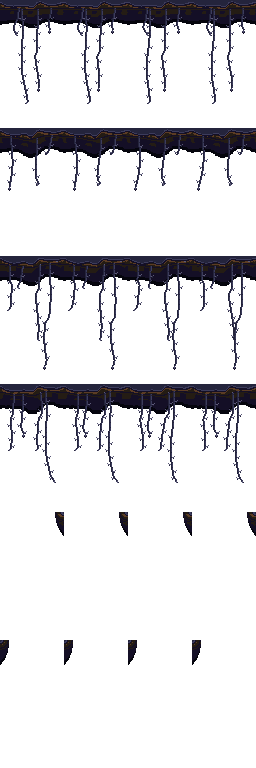
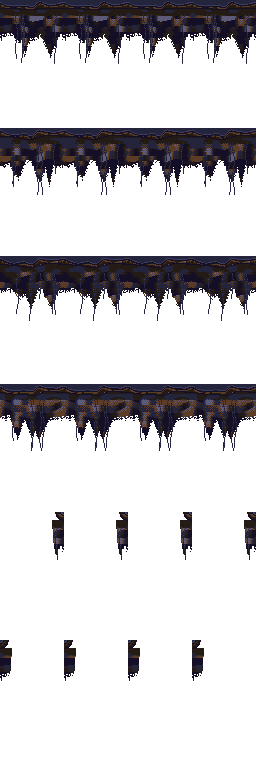
island_underside.png: the old cliff face under the south lip instead of vines (the user: 'closer to the old design but just on the bottom')
The S side and S corners hang cliff.png's banded rock, drips and roots just under the thin lip (corners only under the lip's arc, tapering). Static; the 4 frame columns stay identical so the layout and code don't change. The other sides keep the thin lip. All 4 acts.

diff --git a/Project_T/tools/environment_art/heartwood_grounds.html b/Project_T/tools/environment_art/heartwood_grounds.html
@@ -1762,7 +1762,8 @@ function cliffTile(A, k) {
   }
   return L;
 }
-// Island edge outside the grid (environment_assets.md "Island edge outside the grid", 9329b7a5; the user's pick, B, "with
+// Island edge outside the grid (environment_assets.md "Island edge outside the grid", 9329b7a5; the user's pick, B; the vines
+// they first asked for were replaced by the old cliff face, 2026-10-07; was "with
 // the hanging vines" on the bottom): every map cell is ground, and a thin earth lip is drawn on the void cells round
 // the map, LIP_W px out from its edge, with soft grass-overhang tongues and a Dread shadow under them. Under the south
 // lip a short tucked cliff (the island's underside) with vines hanging into the void, swaying over 4 frames.
@@ -1810,47 +1811,21 @@ function islandLip(A, k) {
 }
 // The S side (row 0–3) and the S corners (4 SW, 5 SE), 64×128, frame f of 4.
 function islandUnderside(A, row, f) {
-  const L = new Img(T, T * 2), piece = row < 4 ? 5 : row === 4 ? 6 : 7, v = row < 4 ? row : 0, s = SEED + 1220 + v * 31;
-  const top = new Img(); paintLip(top, A, piece, v); L.put(top);
-  const vine = [["#1c3c2c", "#34643c", "#34643c"], ["#1c3c2c", "#2c4c5c", "#34643c"], ["#241c14", "#5c3c24", "#8c5c34"], ["#24243c", "#3c3c5c", "#5c5a78"]][A.n - 1];  // stem, lit side, leaf
-  // The cliff: under the lip's lowest pixel in each column, short and in shadow, tapering into a corner.
-  for (let x = 0; x < T; x++) {
-    let yl = -1;
-    for (let y = 0; y < T; y++) if (L.alpha(x, y)) yl = y;
-    if (yl < 0) continue;
-    let h = cliffH(x);
-    if (piece === 6) h *= Math.sqrt(clamp((x - (T - LIP_W)) / LIP_W, 0, 1));
-    if (piece === 7) h *= Math.sqrt(clamp((LIP_W - x) / LIP_W, 0, 1));
-    for (let i = 1; i <= h; i++) {
-      const t = i / h;
-      L.set(x, yl + i, i < 2 ? "#241c14" : t < .4 ? (pnoise(x, yl + i, 6, s + 1) > .55 ? "#241c14" : "#140f26") : t < .78 ? "#140f26" : "#05050d");
-    }
+  // The old cliff face under the south lip only (2026-10-07, the user: "don't like the vines, should look closer to the
+  // old design but just on the bottom"): cliff.png's banded rock, drips and hanging roots, hung just under the lip.
+  // Static (the 4 frame columns stay so the sheet layout doesn't change). The S corners keep only the cliff under the
+  // lip's arc, tapering into the corner.
+  const L = new Img(T, T * 2), piece = row < 4 ? 5 : row === 4 ? 6 : 7, v = row < 4 ? row : 0, CY = 8;
+  const face = cliffTile(A, (piece === 5 ? 3 : piece === 6 ? 2 : 1) + 4 * v);  // 3 = cliff both sides, 2 = east only, 1 = west only
+  for (let y = 0; y < T; y++) for (let x = 0; x < T; x++) {
+    if (!face.alpha(x, y)) continue;
+    if (piece === 6 && x < T - LIP_W - 2) continue;  // the corner: only under the lip's arc
+    if (piece === 7 && x > LIP_W + 1) continue;
+    const taper = piece === 6 ? Math.sqrt(clamp((x - (T - LIP_W - 2)) / (LIP_W + 2), 0, 1)) : piece === 7 ? Math.sqrt(clamp((LIP_W + 1 - x) / (LIP_W + 2), 0, 1)) : 1;
+    if (y > 8 + 50 * taper) continue;
+    L.set(x, y + CY, face.get(x, y));
   }
-  // Hanging vines (S side only): uneven lengths, some long, a dull leaf here and there, a few with a dead dream-bud.
-  // Thick enough to read as vines, not drips (1 px strands read as rain / icicles): a 2 px stem with a lit side, a slow
-  // curve, a leaf every few px. Kept 8 px off the tile's sides so a vine never crosses into the next tile.
-  if (piece === 5) for (let k = 0; k < 4; k++) {
-    if (hash(k, 1, s) < .12) continue;
-    const x0 = 9 + Math.floor((k + hash(k, 2, s) * .8) * 11.5), len = 18 + Math.pow(hash(k, 3, s), 1.5) * 90, ph = hash(k, 4, s) * 6.28;
-    const y0 = Math.round(LIP_W + lipWob(x0, v, false)) - 1, amp = 1 + len / 40;
-    // Not stiff lines (Theme Discussion): about half get a kink partway down, some a curl at the end.
-    const kinkAt = len * (.3 + hash(k, 8, s) * .4), kink = hash(k, 9, s) < .55 ? (hash(k, 10, s) < .5 ? -3 : 3) : 0;
-    const hook = hash(k, 11, s) < .45 ? (hash(k, 12, s) < .5 ? -3 : 3) : 0;
-    const curl = i => kink * clamp((i - kinkAt) / 6, 0, 1) + hook * Math.pow(clamp((i - (len - 8)) / 8, 0, 1), 2);
-    let px = x0, py = y0;
-    for (let i = 0; i < len && y0 + i < T * 2 - 5; i++) {
-      const t = i / len, sway = Math.round(amp * Math.pow(t, 1.5) * Math.sin(f * Math.PI / 2 + ph) + Math.sin(i * .07 + ph) * 3 * t + curl(i));
-      px = clamp(x0 + sway, 3, 59); py = y0 + i;  // never into the next tile
-      L.set(px, py, vine[0]); L.set(px + 1, py, i % 5 === 1 ? vine[0] : vine[1]);
-      if (i > 5 && i % 7 === 3 && hash(k, i, s + 2) < .8) {  // a dull leaf
-        const side = (i / 7 | 0) % 2 ? 2 : -1, dir = side > 0 ? 1 : -1;
-        L.set(px + side, py, vine[2]); L.set(px + side + dir, py, vine[2]); L.set(px + side + dir, py + 1, vine[0]); L.set(px + side + dir * 2, py - 1, vine[2]);
-      }
-    }
-    if (hash(k, 5, s) < .3) {  // a dead dream-bud at its tip
-      for (const [dx, dy, c] of [[0, 1, "#3c3c5c"], [-1, 2, "#3c3c5c"], [0, 2, "#5c5a78"], [1, 2, "#3c3c5c"], [0, 3, "#3c3c5c"], [-1, 3, "#140f26"], [1, 3, "#140f26"], [0, 4, "#140f26"]]) L.set(px + dx, py + dy, c);
-    } else if (hash(k, 6, s) < .75) { const dir = hash(k, 7, s) < .5 ? -1 : 1; L.set(px, py + 1, vine[1]); L.set(px + dir, py + 1, vine[2]); L.set(px + dir, py + 2, vine[2]); L.set(px + dir * 2, py + 2, vine[0]); }  // or a small leaf at its tip
-  }
+  const top = new Img(); paintLip(top, A, piece, v); L.put(top);  // the lip over the cliff's top
   return L;
 }
 const mixC = (a, b, t) => [a[0] + (b[0] - a[0]) * t, a[1] + (b[1] - a[1]) * t, a[2] + (b[2] - a[2]) * t, 255];

diff --git a/Project_T/documentation/environment_assets.md b/Project_T/documentation/environment_assets.md
@@ -62,7 +62,7 @@ two trees pulse in step.
 | `island_edge.png` | 1024×256 | 16 tiles, **column = neighbour mask** (N=1, E=2, S=4, W=8: which neighbours are island), **row = variant** (4; they all meet at the tile ends, the middle bulges and bites differently; the generator picks one per rim cell by a hash of the cell). The grass creeps over the inner lip in uneven tongues and the outline wobbles, so the edge never runs straight or repeats | the map's unbuildable rim (screens_ui.md): **no grass**, a sunken ledge of crumbled dark earth (value below the ground's; the pipeline checks it) whose open sides crumble and fade into the void, roots hanging off the lip, and a shadow step with overhanging grass where it meets the buildable ground; the south lip meets the cliff tops. Assumes a convex (blocky) island: no inner-corner tiles |
 | `cliff.png` | 256×256 | columns: bit 1 = the cell to the west also has cliff, bit 2 = the east does; rows: 4 variants | cliff face under island cells whose south neighbour is void; transparent below its ragged, dripping underside |
 | `island_lip.png` | 320×256 | **columns: 0 N side** (the void cell above the map), **1 E side, 2 W side, 3 NE corner, 4 NW corner** (the void cell diagonal to the map's corner); **rows: 4 variants** (the corners repeat); static | the island edge outside the grid (user's pick B, 2026-10-07; "Island edge outside the grid"): every map cell is ground, and a ~10 px lip is drawn on the void cells round the map: Root earth, its inner edge catching Bark light, soft grass-overhang tongues with a Dread shadow, rounded corners, no teeth. One wobble wrapping every 64 px is shared by every piece, so any variants join |
-| `island_underside.png` | 256×768 | **64×128 cells: columns = 4 sway frames; rows 0–3 the S side variants, 4 SW corner, 5 SE corner** (placed on the void cell under the bottom row, reaching into the cell below) | the south lip, a short tucked cliff (Root → Dread → Void, 13–21 px, tapering into the corners) and the hanging vines: 2 px stems with a lit side and dull leaves, uneven lengths up to ~100 px, a few with a dead dream-bud; they sway over the 4 frames. Kept 8 px off the tile sides. Replaces `island_edge` + `cliff` once Environment Code switches |
+| `island_underside.png` | 256×768 | **64×128 cells: columns = 4 frames (identical, static); rows 0–3 the S side variants, 4 SW corner, 5 SE corner** (placed on the void cell under the bottom row, reaching into the cell below) | the south lip with the old cliff face hung under it (the user, 2026-10-07: the vines replaced by "the old design, just on the bottom"): `cliff.png`'s banded rock, drips and hanging roots, tapering into the corners under the lip's arc. Static: the 4 frame columns are identical (kept so the layout didn't change). Replaces `island_edge` + `cliff` once Environment Code switches |
 | `heartwood.png` | 512×2688 | 128×128 frames: **row = leaves lost (0–20)**, 4 frames per row; the Memory Grove's Heartwood (twisted trunk, gold-rimmed mossy bark, the Hollow's light): rot spreads through the crown, a dream-fruit darkens per 4 leaves, the rim turns ember and the Hollow fades by 20 | the goal; anchor its bottom centre about 8 px below the goal cell's bottom centre, so it overhangs the cells around it |
 | `heartwood_stage_0.png` … `heartwood_stage_3.png` | 512×2688 each | like `heartwood.png`: 128×128 frames, **row = leaves lost (0–20)**, 4 frames per row | the in-run Heartwood that mirrors the player's Memory Grove (meta_design.md "Carried into the run"): canopy stages matching `assets/meta/grove/grove_canopy_0..3.png` (young → fuller → broad → great old tree), the same 128 px frame (later stages are fuller and broader, never bigger). The Grove's crown palette in every act, shaded in 2 px blocks; Bark-to-Root wood; warm halo rim and golden Hollow. **No dream-fruit or twinkles**: the game draws a fruit per Memory and a glint per planted node. Fruit vines hang to the fruit anchors. Leaf loss: rot spreads through the crown, black leaves fall, the rim turns ember and the Hollow fades |
 | `heartwood_stages.json` | text | `frame`, `fruit_sheet`, and per stage `crown` [x0, y0, x1, y1], `fruit` (10 anchors in fill order: the fruit's centre in the 128 px frame; under the crown's belly first, centre out, then nestled in the crown) and `glints` (the lit 2 px blocks where a glint may twinkle) | read by the game to place the fruit and glints over the stage sheet. Copied as is by `process_environment.gd` |
